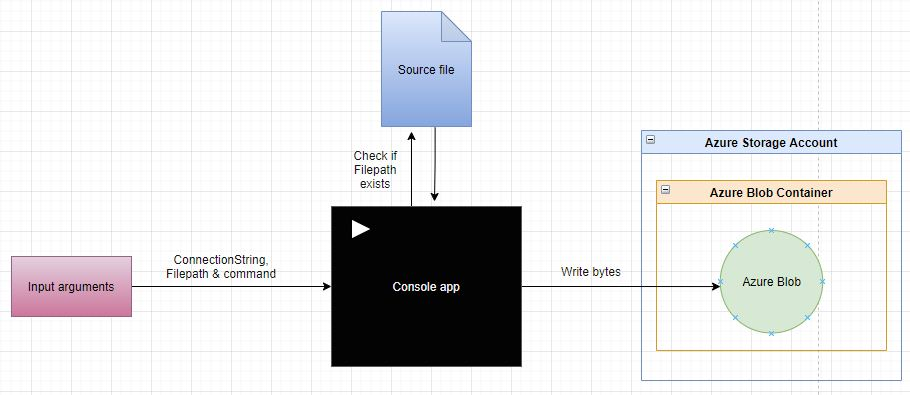
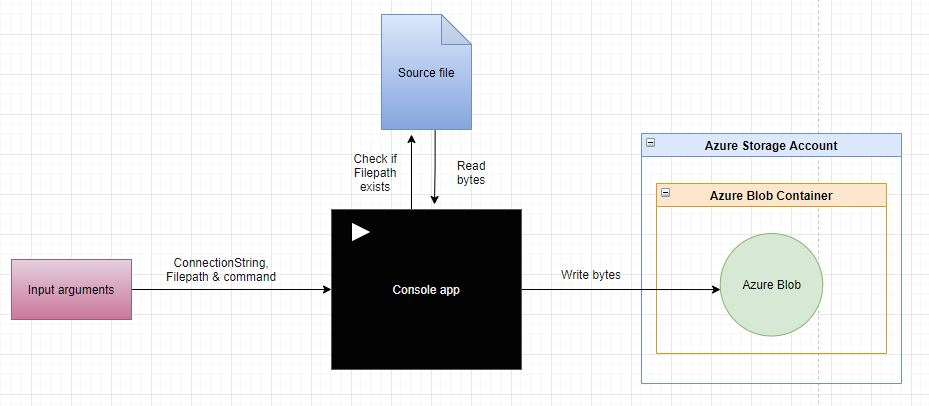
Added more content

Changed region(s): [[0.0, 0.0304, 1.0, 0.9418], [0.6769, 0.9418, 0.9846, 0.9722], [0.4, 0.6987, 0.5231, 0.7595]]

diff --git a/_posts/2021-10-05-files-in-the-cloud.html b/_posts/2021-10-05-files-in-the-cloud.html
@@ -88,6 +88,23 @@ background: '/img/posts/files_cloud/banner.jpg'
     The data flow for the application is quite simple. Below I've posted a diagram showing you the flow when adding a new file to an existing blob.<br>
     <img src="https://techshelter.albin.dev/img/posts/files_cloud/05.jpg">
 </p>
+<h3>Pricing</h3>
+<p>If we put things into a scenario. Let us say we make a public blob insead for this CLI app that anyone can use.<br>
+By spicing that scenario we imagine 1000 users uploading 100Mb of data each day. What would the intial cost be, and how would that cost increase over time? <br> <br>
+Well this depends. If everything is hot storage we would land more expensive with a bigger server.
+<br>
+But what you could do is setting a margin, and structure your blobs. So data that get passed a certain date gets moved into cold storage. That way we can keep active data relevant and easy to retrieve while minimizing pricing for less relevant data.
+How you would set this up obviously depends on your data consumption. You could set the margin to a number of visits over a certain time period if you were to have an imaging site for instance.
+<br><br>
+But to keep it simple and relevant I'll assume that we will <strong>only</strong> use hot storage because we don't care and want everything we have super accessible.
+<br><br>
+A thousand users uploading 100MB everyday will result in a total of <strong>97.6 GB/day</strong> We do not wish to purchase more too often so we expect to expand every year.
+This would require us exactly 35624GBs or <strong>34.7 terabytes</strong> per year. Now also having an error margin of 20% so let's set our yearly server size to <strong>42TB</strong><br>
+With a blob size limit of 200GB and our total size of 42TB would need us 216 blobs if we wish to maximize efficiency and just cramp every data into a free blob.<br>
+With the 20% error margin we assume a writing of 120k per year and times that 10 for read(we assume people frequently look at photos) we would arrive at <strong>930$ per month</strong><br>
+<img src="https://techshelter.albin.dev/img/posts/files_cloud/06.jpg"><br>
+<img src="https://techshelter.albin.dev/img/posts/files_cloud/07.jpg"><br>
+</p>
 <br>
 <br>
 <h6>Thank you for reading!</h6>
